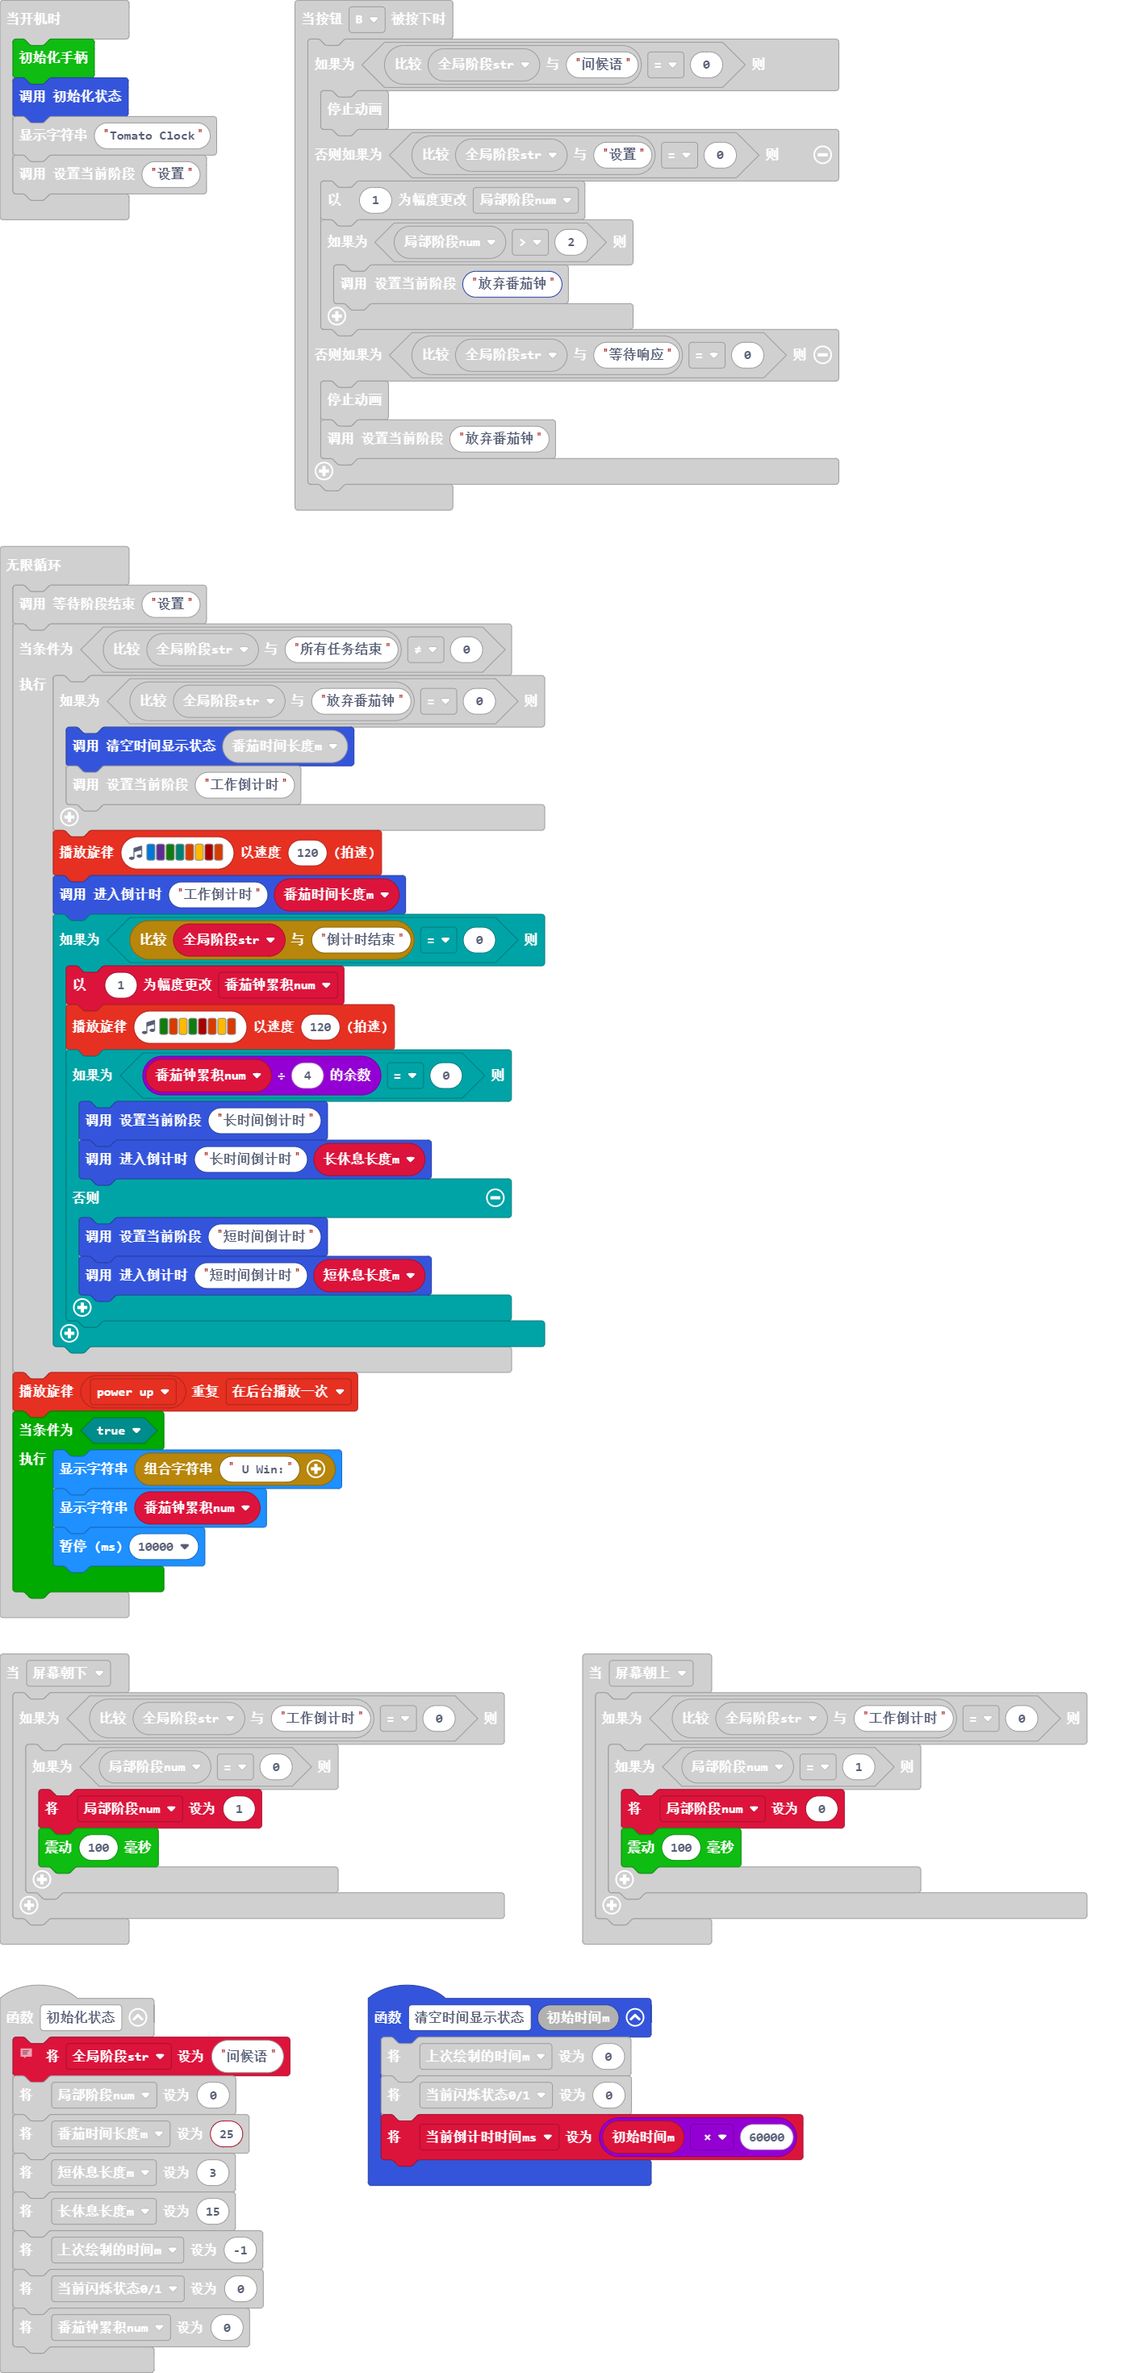
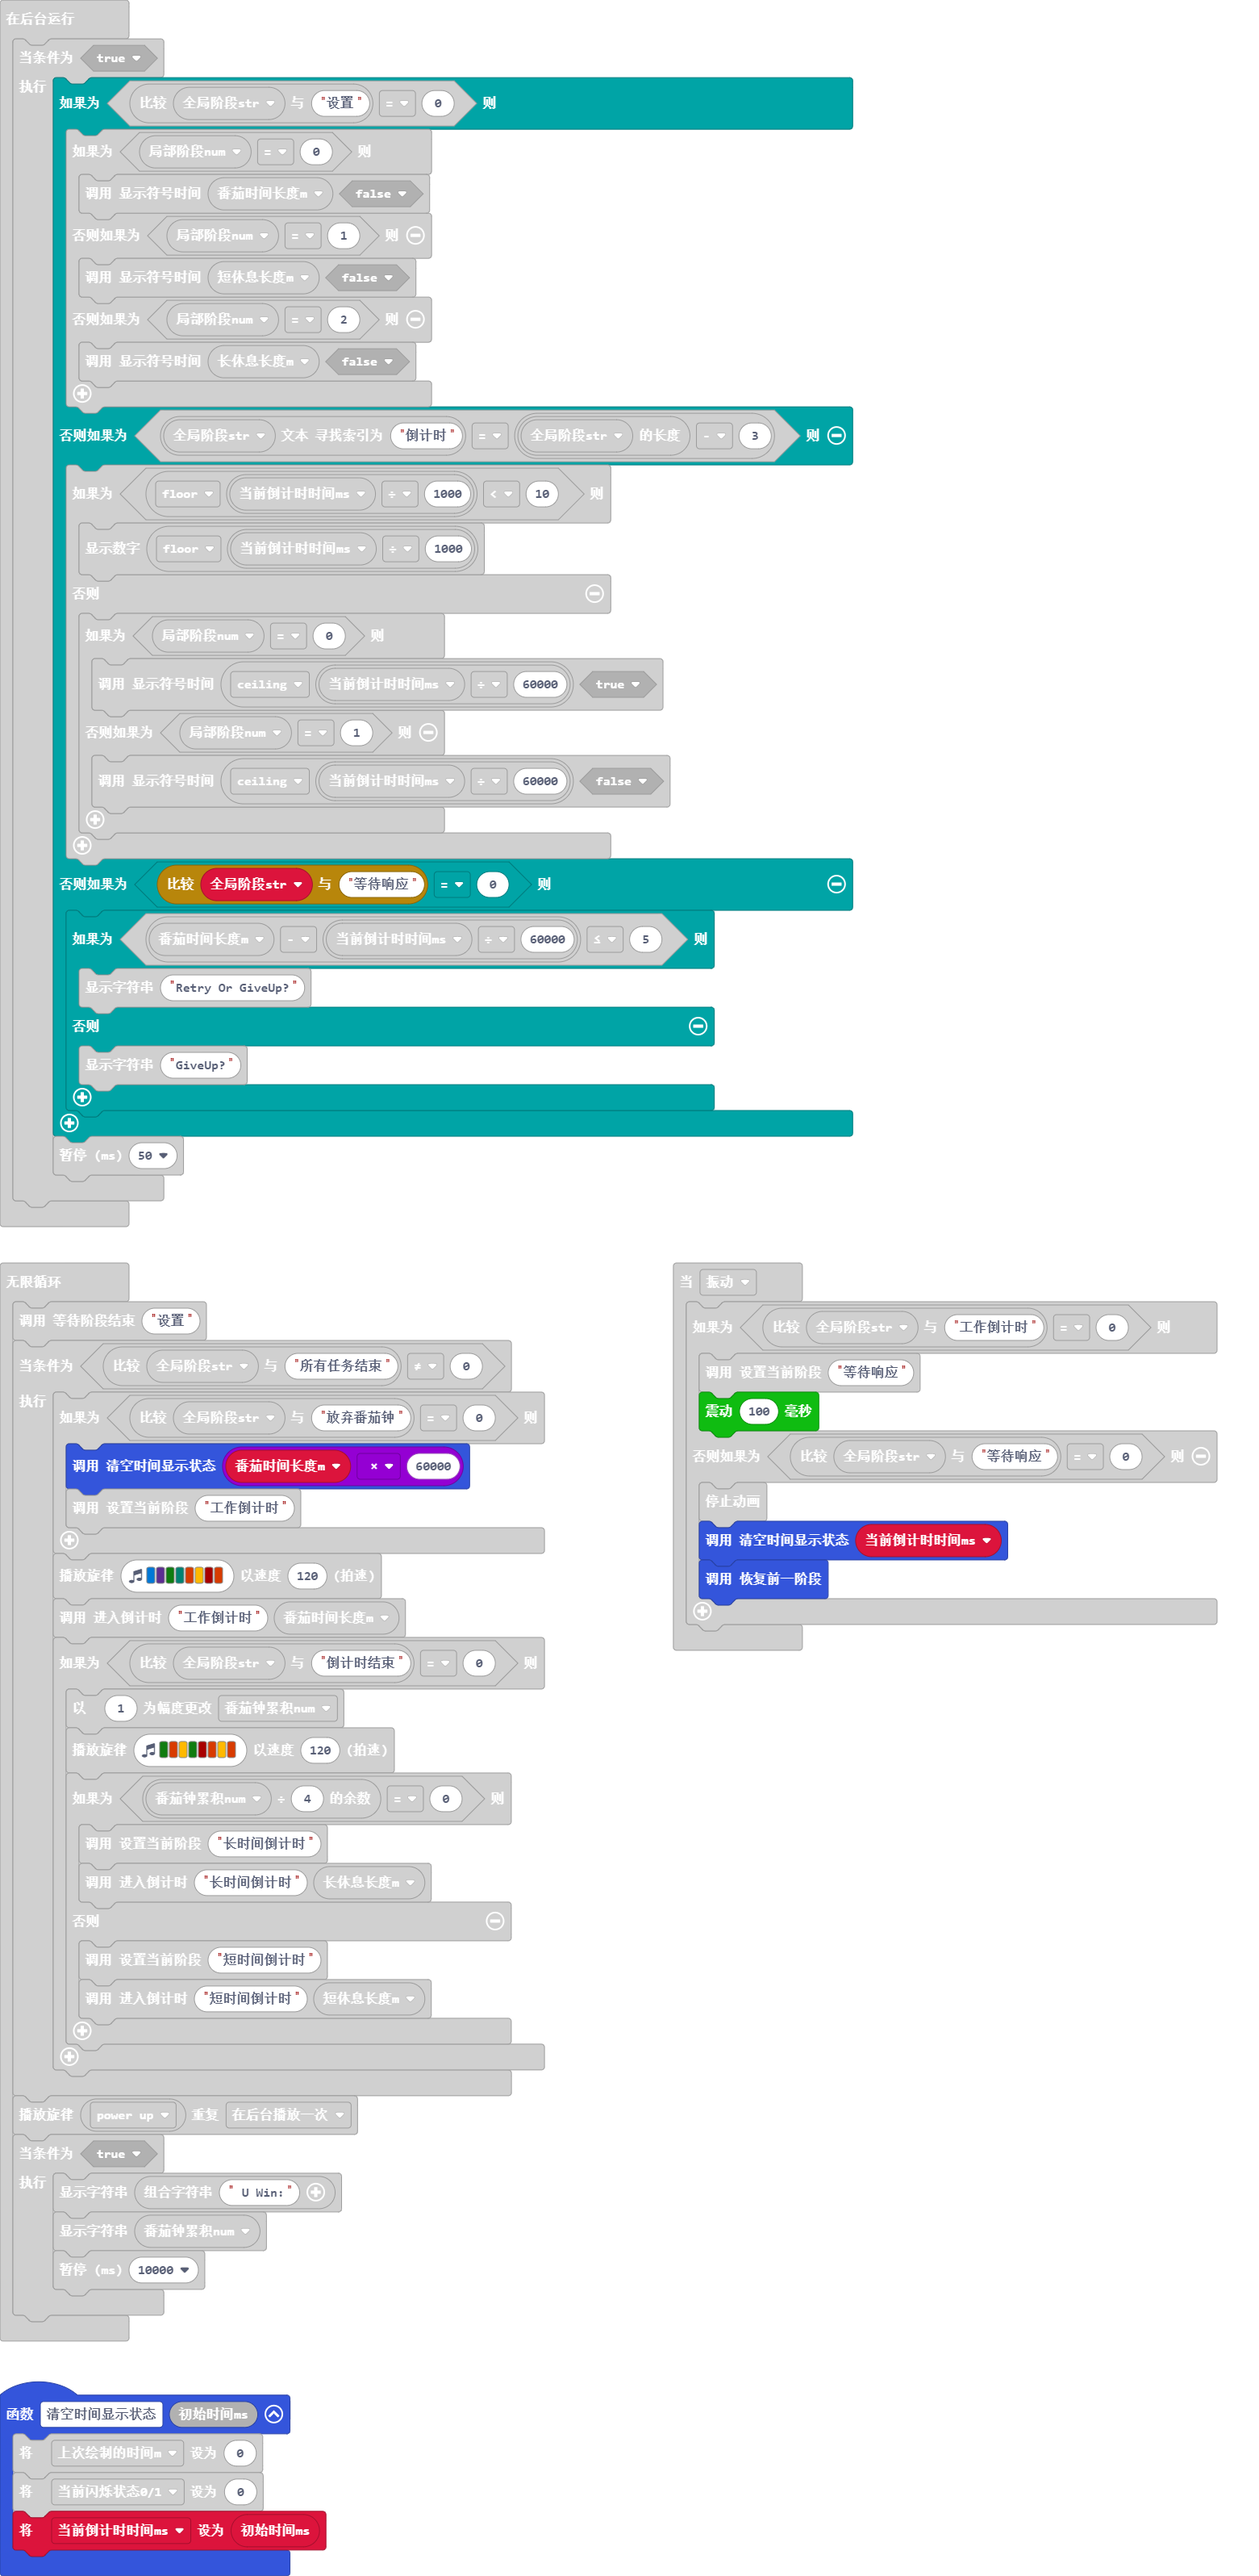
更新 main.blocks, main.ts

diff --git a/main.ts b/main.ts
@@ -6,10 +6,10 @@ input.onGesture(Gesture.ScreenDown, function () {
         }
     }
 })
-function 清空时间显示状态 (初始时间m: number) {
+function 清空时间显示状态 (初始时间ms: number) {
     上次绘制的时间m = 0
     当前闪烁状态01 = 0
-    当前倒计时时间ms = 初始时间m * 60000
+    当前倒计时时间ms = 初始时间ms
 }
 function 等待阶段结束 (阶段Str: string) {
     while (全局阶段str.compare(阶段Str) == 0) {
@@ -83,13 +83,10 @@ input.onButtonPressed(Button.A, function () {
 input.onGesture(Gesture.Shake, function () {
     if (全局阶段str.compare("工作倒计时") == 0) {
         设置当前阶段("等待响应")
-        if (番茄时间长度m - 当前倒计时时间ms / 60000 <= 5) {
-            basic.showString("Retry Or GiveUp?")
-        } else {
-            basic.showString("GiveUp?")
-        }
+        joystickbit.Vibration_Motor(100)
     } else if (全局阶段str.compare("等待响应") == 0) {
         led.stopAnimation()
+        清空时间显示状态(当前倒计时时间ms)
         恢复前一阶段()
     }
 })
@@ -196,7 +193,7 @@ basic.forever(function () {
     等待阶段结束("设置")
     while (全局阶段str.compare("所有任务结束") != 0) {
         if (全局阶段str.compare("放弃番茄钟") == 0) {
-            清空时间显示状态(番茄时间长度m)
+            清空时间显示状态(番茄时间长度m * 60000)
             设置当前阶段("工作倒计时")
         }
         music.playMelody("E D G F B A C5 B ", 120)
@@ -239,6 +236,12 @@ control.inBackground(function () {
                 } else if (局部阶段num == 1) {
                     显示符号时间(Math.ceil(当前倒计时时间ms / 60000), false)
                 }
+            }
+        } else if (全局阶段str.compare("等待响应") == 0) {
+            if (番茄时间长度m - 当前倒计时时间ms / 60000 <= 5) {
+                basic.showString("Retry Or GiveUp?")
+            } else {
+                basic.showString("GiveUp?")
             }
         }
         basic.pause(50)
